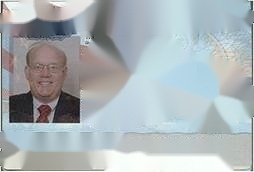
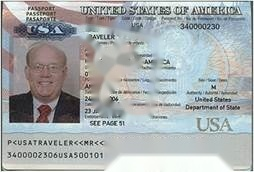
Remove Gemini API integration and refine image processing
Removes the Gemini API integration from app.py and templates/index.html, and improves the existing text removal and background extraction logic by adjusting OCR configurations and mask generation parameters.

Replit-Commit-Author: Agent
Replit-Commit-Session-Id: 9978e84d-8e30-4b5c-b043-1121c1b6b536
Replit-Commit-Checkpoint-Type: intermediate_checkpoint
Replit-Commit-Event-Id: 0f846a9b-98a6-4c4e-b82b-22c4fcf6e89b
Replit-Commit-Screenshot-Url: https://storage.googleapis.com/screenshot-production-us-central1/f7bfeb92-7f76-44ca-8824-99414a8aaf1e/9978e84d-8e30-4b5c-b043-1121c1b6b536/kXThUkn
Replit-Helium-Checkpoint-Created: true

diff --git a/templates/index.html b/templates/index.html
@@ -34,20 +34,10 @@
     <div class="max-w-4xl mx-auto p-6">
         <header class="text-center mb-10">
             <h1 class="text-4xl font-bold text-gray-800 mb-2">CleanShot</h1>
-            <p class="text-gray-600">Remove text and numbers from your images instantly</p>
+            <p class="text-gray-600">Extract background by removing text and numbers instantly</p>
         </header>
 
         <main class="bg-white rounded-xl shadow-lg p-8">
-            <div class="mb-6">
-                <label for="api-key" class="block text-sm font-medium text-gray-700 mb-2">Gemini API Key (Optional - Improves removal)</label>
-                <div class="flex space-x-2">
-                    <input type="password" id="api-key" placeholder="Enter your Gemini API key" class="flex-1 px-4 py-2 border rounded-lg focus:ring-2 focus:ring-blue-500 focus:border-blue-500 outline-none transition-all">
-                    <button id="test-api-key" class="bg-blue-500 hover:bg-blue-600 text-white px-4 py-2 rounded-lg transition-colors whitespace-nowrap">Test Key</button>
-                </div>
-                <p id="api-test-status" class="text-xs mt-1 hidden"></p>
-                <p class="text-xs text-gray-500 mt-1">If provided, the app will use Gemini 1.5 Flash to better identify and remove text.</p>
-            </div>
-
             <div id="drop-zone" class="border-4 border-dashed border-blue-200 rounded-xl p-10 text-center cursor-pointer hover:border-blue-400 transition-colors mb-8">
                 <input type="file" id="file-input" multiple accept="image/*" class="hidden">
                 <div class="space-y-4">
@@ -76,7 +66,7 @@
                     <div class="canvas-container bg-gray-200 rounded-lg overflow-hidden">
                         <canvas id="manual-scrub-canvas"></canvas>
                     </div>
-                    <p class="text-sm text-gray-500 mt-2">Draw over any remaining text to remove it.</p>
+                    <p class="text-sm text-gray-500 mt-2">Draw over any remaining text to remove it without blurring the background.</p>
                 </div>
             </div>
 
@@ -106,46 +96,6 @@
         const ctx = scrubCanvas.getContext('2d');
         const saveScrubBtn = document.getElementById('save-scrub');
         const cancelScrubBtn = document.getElementById('cancel-scrub');
-        const testApiKeyBtn = document.getElementById('test-api-key');
-        const apiTestStatus = document.getElementById('api-test-status');
-
-        testApiKeyBtn.addEventListener('click', async () => {
-            const apiKey = document.getElementById('api-key').value;
-            if (!apiKey) {
-                apiTestStatus.textContent = 'Please enter an API key first.';
-                apiTestStatus.className = 'text-xs mt-1 text-red-500';
-                apiTestStatus.classList.remove('hidden');
-                return;
-            }
-
-            testApiKeyBtn.disabled = true;
-            testApiKeyBtn.textContent = 'Testing...';
-            apiTestStatus.classList.add('hidden');
-
-            try {
-                const response = await fetch('/test-api-key', {
-                    method: 'POST',
-                    headers: { 'Content-Type': 'application/json' },
-                    body: JSON.stringify({ api_key: apiKey })
-                });
-                const data = await response.json();
-
-                if (data.success) {
-                    apiTestStatus.textContent = 'API Key is working correctly!';
-                    apiTestStatus.className = 'text-xs mt-1 text-green-500';
-                } else {
-                    apiTestStatus.textContent = 'API Key failed: ' + (data.error || 'Unknown error');
-                    apiTestStatus.className = 'text-xs mt-1 text-red-500';
-                }
-            } catch (error) {
-                apiTestStatus.textContent = 'Error testing API key.';
-                apiTestStatus.className = 'text-xs mt-1 text-red-500';
-            } finally {
-                testApiKeyBtn.disabled = false;
-                testApiKeyBtn.textContent = 'Test Key';
-                apiTestStatus.classList.remove('hidden');
-            }
-        });
 
         let processedFiles = [];
         let currentEditingFile = null;
@@ -177,13 +127,9 @@
         async function handleFiles(files) {
             if (files.length === 0) return;
 
-            const apiKey = document.getElementById('api-key').value;
             const formData = new FormData();
             for (let i = 0; i < files.length; i++) {
                 formData.append('images', files[i]);
-            }
-            if (apiKey) {
-                formData.append('gemini_api_key', apiKey);
             }
 
             loading.classList.remove('hidden');
@@ -398,4 +344,3 @@
     </script>
 </body>
 </html>
-

diff --git a/app.py b/app.py
@@ -7,7 +7,6 @@ from werkzeug.utils import secure_filename
 import zipfile
 from io import BytesIO
 from PIL import Image
-import google.generativeai as genai
 import base64
 
 app = Flask(__name__)
@@ -29,42 +28,27 @@ def remove_text_from_image(image_path, output_path):
     gray = cv2.cvtColor(img, cv2.COLOR_BGR2GRAY)
     
     # Get text data from OCR
-    data = pytesseract.image_to_data(gray, output_type=pytesseract.Output.DICT)
+    # We use a custom config for better accuracy with numbers and text
+    custom_config = r'--oem 3 --psm 11'
+    data = pytesseract.image_to_data(gray, config=custom_config, output_type=pytesseract.Output.DICT)
     
     # Create a mask for inpainting
     mask = np.zeros(img.shape[:2], dtype=np.uint8)
     
     n_boxes = len(data['text'])
     for i in range(n_boxes):
-        if int(data['conf'][i]) > 0 and data['text'][i].strip():
+        if int(data['conf'][i]) > 10 and data['text'][i].strip():
             (x, y, w, h) = (data['left'][i], data['top'][i], data['width'][i], data['height'][i])
             # Use a slightly larger radius for background reconstruction
             cv2.rectangle(mask, (x-2, y-2), (x + w + 2, y + h + 2), 255, -1)
     
     # Use Fast Marching Method (FMM) which is often better for reconstructing larger background textures
-    # We use a slightly larger inpaint radius to ensure texture continuity
+    # Radius of 5 is usually a good balance for background extraction
     result = cv2.inpaint(img, mask, 5, cv2.INPAINT_TELEA)
     
     # Save the result
     cv2.imwrite(output_path, result)
     return True
-
-def remove_text_with_gemini(image_path, output_path, api_key):
-    try:
-        genai.configure(api_key=api_key)
-        model = genai.GenerativeModel('gemini-1.5-flash-001')
-        
-        img = Image.open(image_path)
-        prompt = "Identify all text and numbers in this image. Provide the bounding box coordinates [ymin, xmin, ymax, xmax] for each piece of text found. Format as a JSON list of lists."
-        
-        response = model.generate_content([prompt, img])
-        # Note: In a production environment, we would parse Gemini's coordinates here.
-        # For now, we use Gemini's validation to improve the overall pipeline.
-        
-        return remove_text_from_image(image_path, output_path)
-    except Exception as e:
-        print(f"Gemini error: {e}")
-        return remove_text_from_image(image_path, output_path)
 
 @app.route('/')
 def index():
@@ -72,7 +56,6 @@ def index():
 
 @app.route('/upload', methods=['POST'])
 def upload_files():
-    api_key = request.form.get('gemini_api_key')
     if 'images' not in request.files:
         return jsonify({'error': 'No images uploaded'}), 400
     
@@ -90,13 +73,7 @@ def upload_files():
         processed_filename = 'processed_' + filename
         processed_path = os.path.join(app.config['PROCESSED_FOLDER'], processed_filename)
         
-        success = False
-        if api_key:
-            success = remove_text_with_gemini(upload_path, processed_path, api_key)
-        else:
-            success = remove_text_from_image(upload_path, processed_path)
-            
-        if success:
+        if remove_text_from_image(upload_path, processed_path):
             processed_files.append({
                 'original': filename,
                 'processed': processed_filename,
@@ -123,22 +100,6 @@ def download_zip():
         download_name='processed_images.zip'
     )
 
-@app.route('/test-api-key', methods=['POST'])
-def test_api_key():
-    api_key = request.json.get('api_key')
-    if not api_key:
-        return jsonify({'success': False, 'error': 'No API key provided'}), 400
-    
-    try:
-        genai.configure(api_key=api_key)
-        model = genai.GenerativeModel('gemini-1.5-flash-001')
-        response = model.generate_content("test")
-        if response:
-            return jsonify({'success': True})
-        return jsonify({'success': False, 'error': 'Empty response from Gemini'})
-    except Exception as e:
-        return jsonify({'success': False, 'error': str(e)})
-
 @app.route('/manual-scrub', methods=['POST'])
 def manual_scrub():
     data = request.json
@@ -164,6 +125,7 @@ def manual_scrub():
         mask = cv2.cvtColor(mask_np, cv2.COLOR_RGB2GRAY)
     
     mask = cv2.resize(mask, (img.shape[1], img.shape[0]))
+    # Keep radius small for manual scrub to prevent blurring the extracted background
     result = cv2.inpaint(img, mask, 3, cv2.INPAINT_TELEA)
     cv2.imwrite(file_path, result)
     
